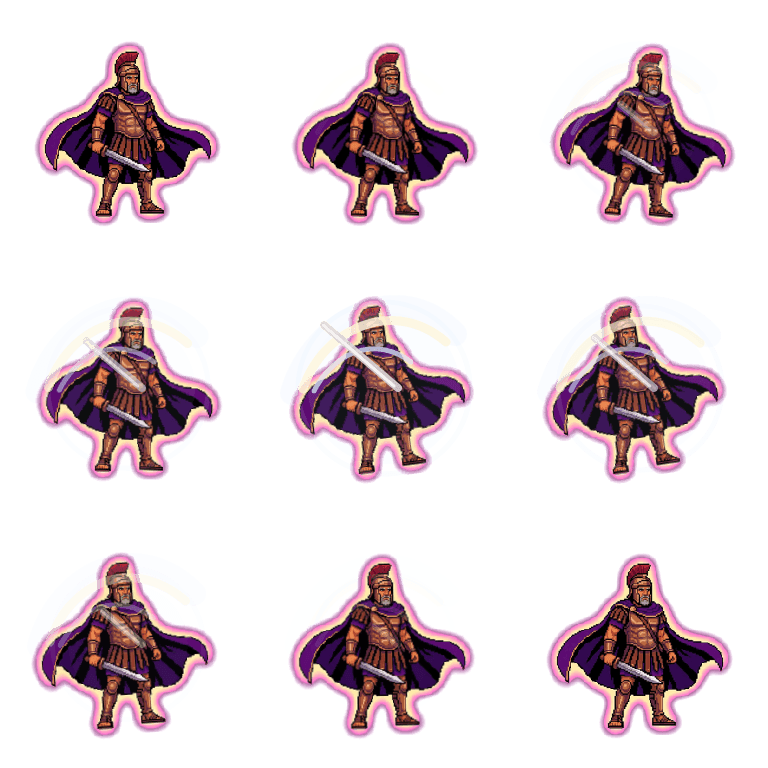
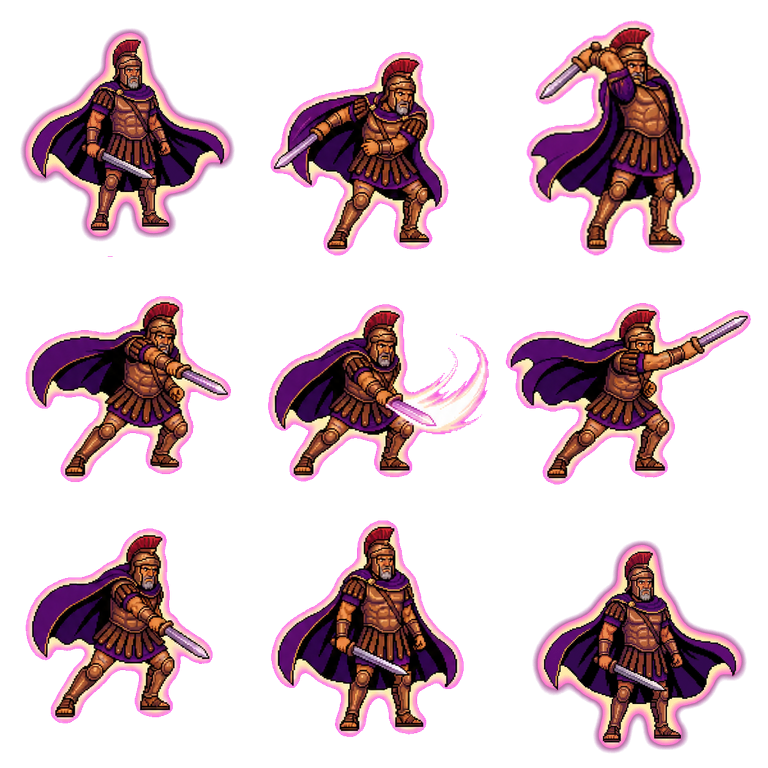
Improve Marius attack animation sheet

diff --git a/tests/feature_audit.test.ts b/tests/feature_audit.test.ts
@@ -273,6 +273,21 @@ describe('Tower roster integrity', () => {
     }
   });
 
+  it('Marius custom attack sheet has a readable sword swing and idle return', async () => {
+    const path = await import('node:path');
+    const sharp = (await import('sharp')).default;
+    const file = path.join(process.cwd(), 'public/assets/heroes/attacks/hero_marius_attack_sheet.png');
+    const first = await sharp(file).extract({ left: 0, top: 0, width: 256, height: 256 }).ensureAlpha().raw().toBuffer();
+    const fifth = await sharp(file).extract({ left: 256, top: 256, width: 256, height: 256 }).ensureAlpha().raw().toBuffer();
+    const sixth = await sharp(file).extract({ left: 512, top: 256, width: 256, height: 256 }).ensureAlpha().raw().toBuffer();
+    const ninth = await sharp(file).extract({ left: 512, top: 512, width: 256, height: 256 }).ensureAlpha().raw().toBuffer();
+
+    expect(meanFrameDiff(first, fifth), 'Marius frame 5 should be a visibly different contact pose, not a floating slash over idle').toBeGreaterThan(30);
+    expect(meanFrameDiff(first, sixth), 'Marius frame 6 should carry follow-through motion after contact').toBeGreaterThan(30);
+    expect(meanFrameDiff(first, ninth), 'Marius frame 9 should return to frame 1 for clean idle recovery').toBeLessThan(0.05);
+    expect(alphaBounds(fifth, 256).width, 'Marius contact frame should include a broad readable sword arc').toBeGreaterThan(220);
+  });
+
   it('every non-melee, non-hero base tower has a 3x3 attack sprite sheet', async () => {
     const fs = await import('node:fs');
     const path = await import('node:path');

diff --git a/src/render/RenderEngine.ts b/src/render/RenderEngine.ts
@@ -3892,7 +3892,11 @@ export class RenderEngine {
           const age = 1 - flashT;
           const side = (tw.id.charCodeAt(tw.id.length - 1) % 2 === 0) ? 1 : -1;
           if (usingHeroAttackSheet) {
-            heroAttackRotation = meleeHero ? Math.sin(age * Math.PI) * 0.12 * side : Math.sin(age * Math.PI) * -0.07 * side;
+            // Marius' custom 3x3 sheet already contains the body torque,
+            // sword arc, follow-through, and idle return.
+            heroAttackRotation = heroId === 'HERO_MARIUS'
+              ? 0
+              : meleeHero ? Math.sin(age * Math.PI) * 0.12 * side : Math.sin(age * Math.PI) * -0.07 * side;
             heroAttackSkewX = 0;
           } else if (meleeHero) {
             const windupToRelease = age < 0.46
